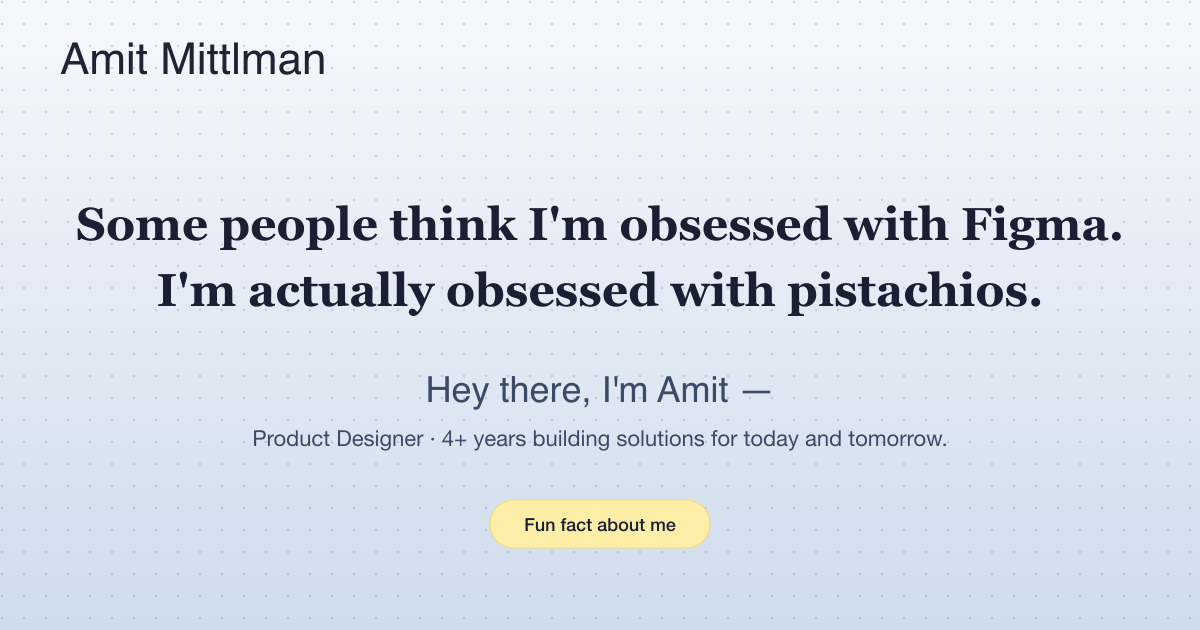
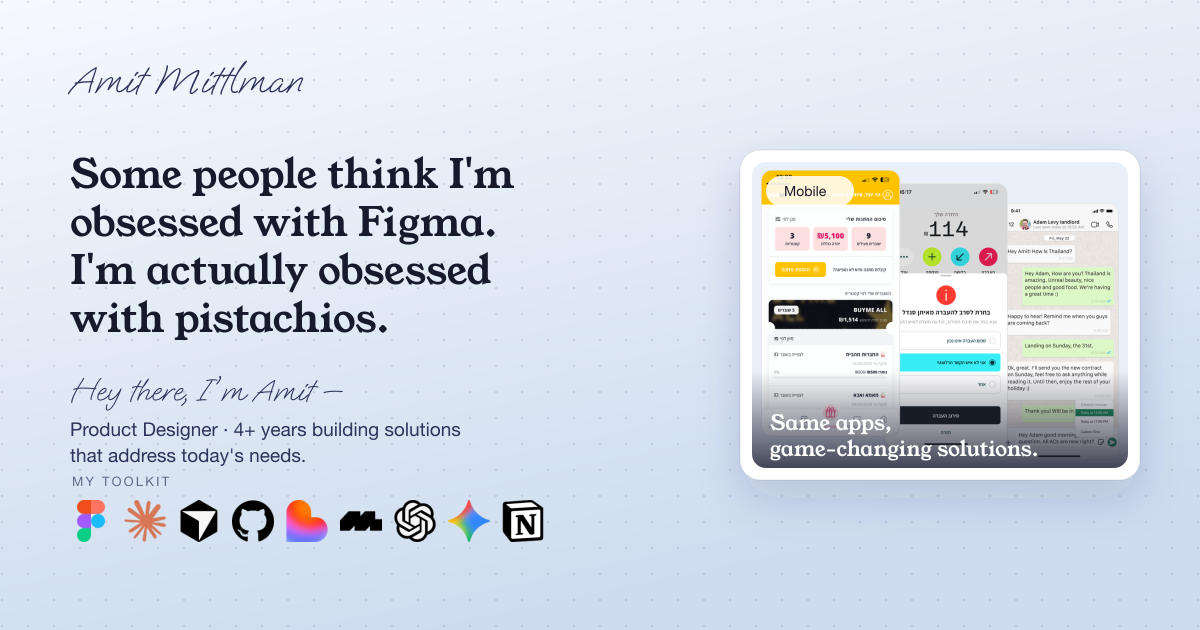
Update social share (OG) image to the new homepage look
Regenerated public/assets/og-image.png (1200x630) to reflect the
redesigned homepage — hero headline, greeting, My Toolkit logos, and a
project card — using the site's own fonts. Bumped og:image/twitter:image
with ?v=2 so social platforms re-fetch instead of serving the cached old
preview.

diff --git a/index.html b/index.html
@@ -19,7 +19,7 @@
       property="og:description"
       content="Product Designer with 4+ years of experience building solutions that address today's needs while anticipating tomorrow's challenges."
     />
-    <meta property="og:image" content="https://amittlmanportfolio.netlify.app/assets/og-image.png" />
+    <meta property="og:image" content="https://amittlmanportfolio.netlify.app/assets/og-image.png?v=2" />
     <meta property="og:image:width" content="1200" />
     <meta property="og:image:height" content="630" />
 
@@ -30,7 +30,7 @@
       name="twitter:description"
       content="Product Designer with 4+ years of experience building solutions that address today's needs while anticipating tomorrow's challenges."
     />
-    <meta name="twitter:image" content="https://amittlmanportfolio.netlify.app/assets/og-image.png" />
+    <meta name="twitter:image" content="https://amittlmanportfolio.netlify.app/assets/og-image.png?v=2" />
   </head>
   <body>
     <div id="root"></div>
